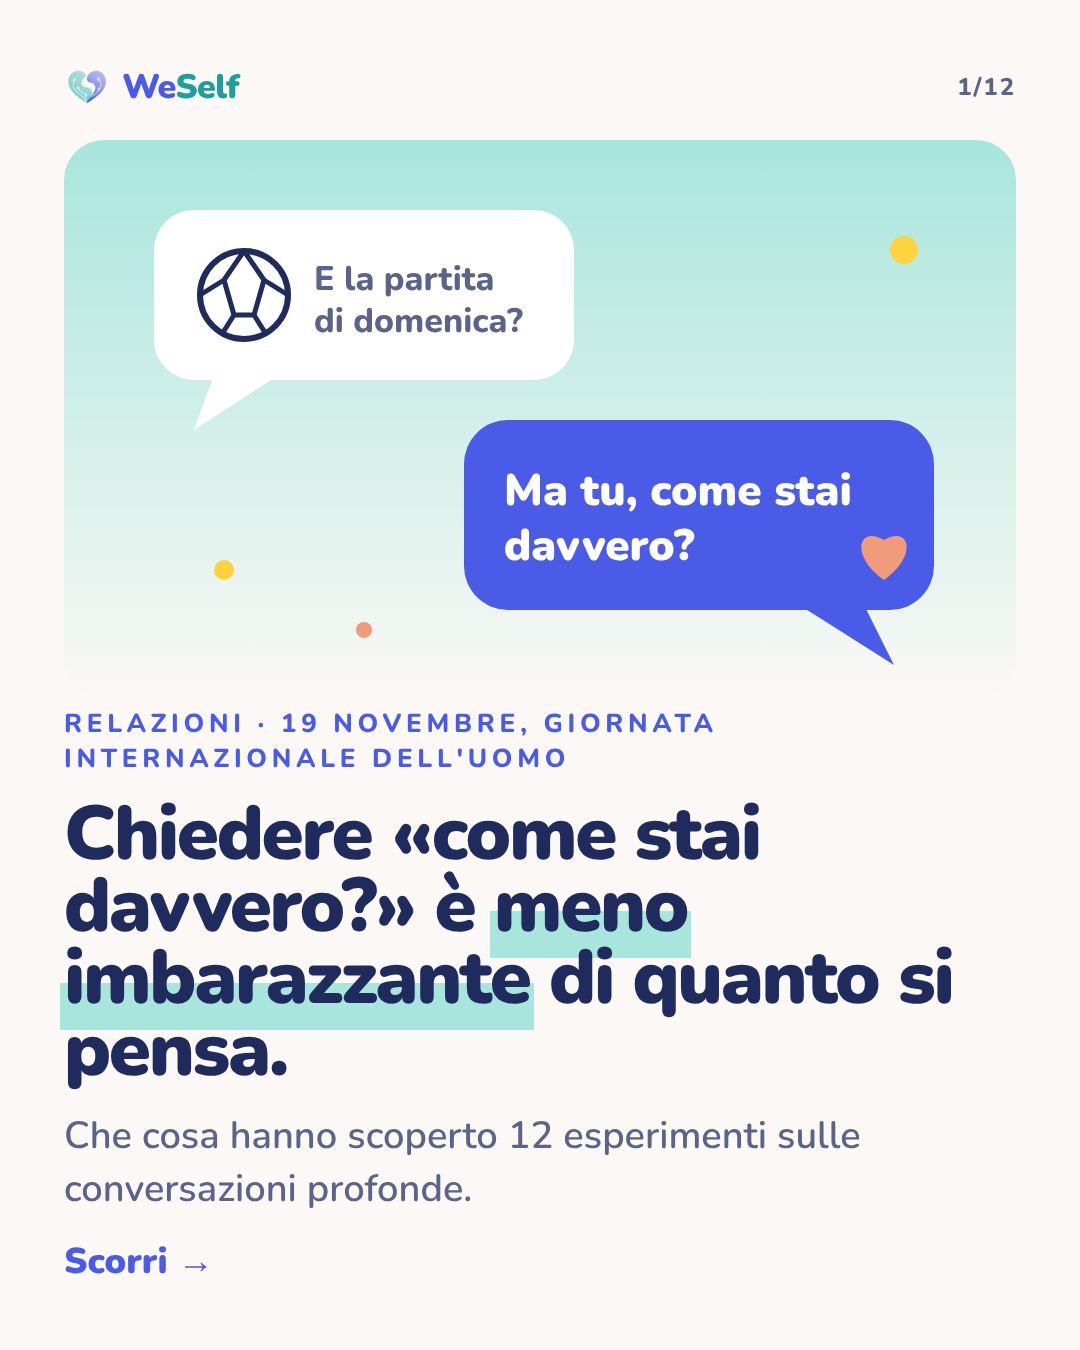
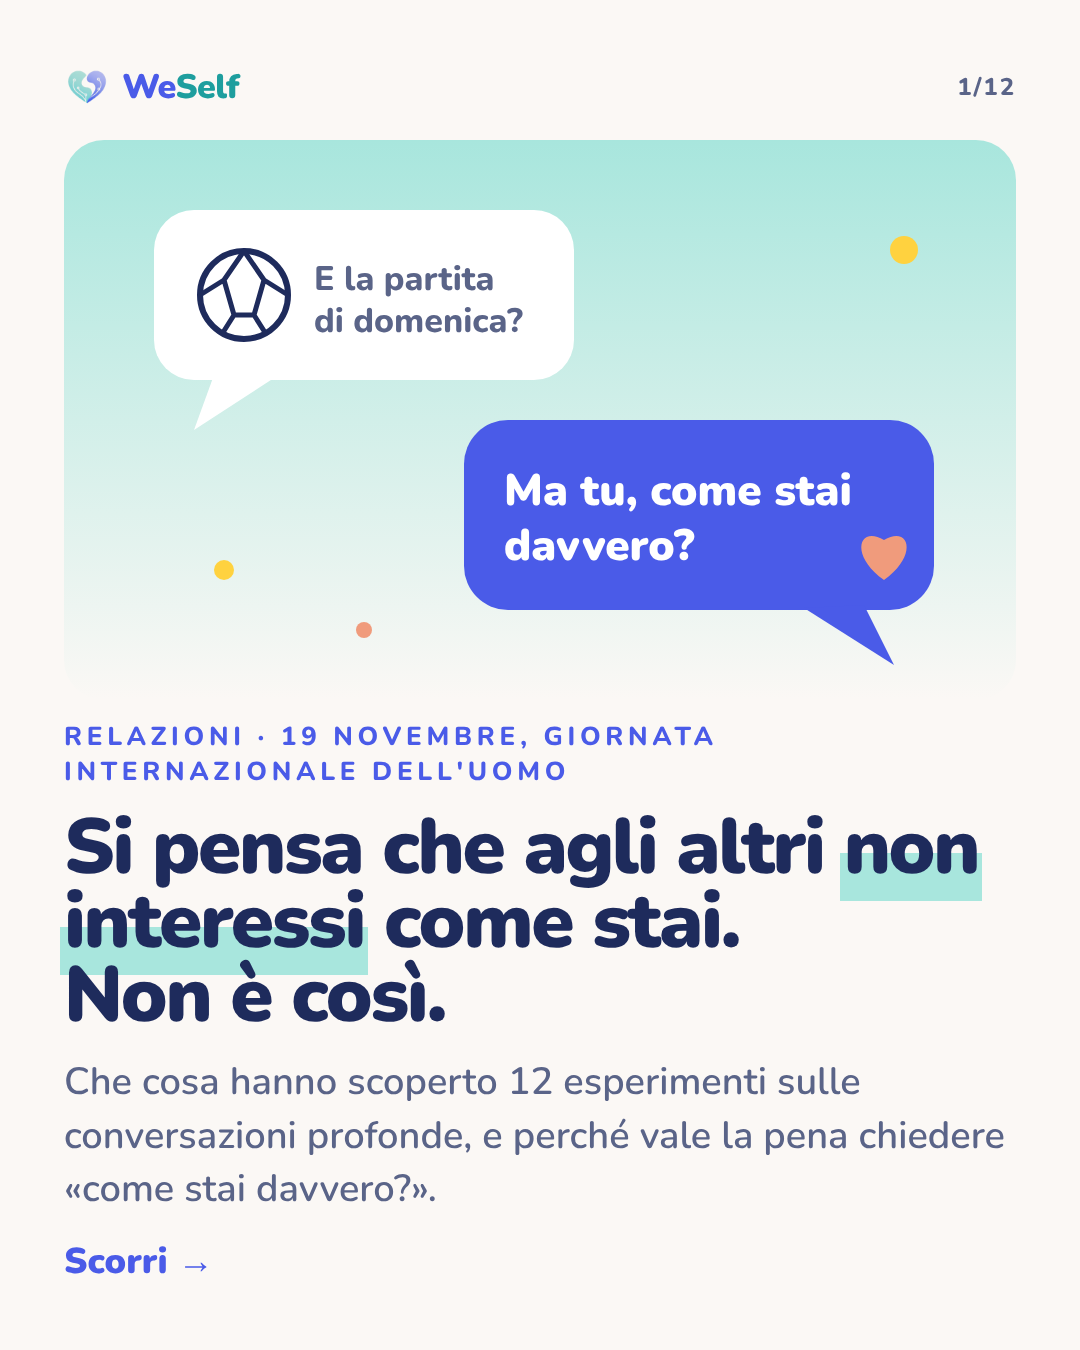
Carosello come-stai: l'idea «si pensa che agli altri non interessi» diventa il gancio della copertina
Claude-Session: https://claude.ai/code/session_01KYQeP73Zvn8PeP6zhkL2Sc

Changed region(s): [[0.0306, 0.5289, 0.9167, 0.9022]]

diff --git a/carosselli/come-stai/editor-testi.html b/carosselli/come-stai/editor-testi.html
@@ -229,8 +229,8 @@ svg.shape{position:absolute;z-index:1}
 <circle cx="840" cy="110" r="14" fill="#FFD23F"></circle><circle cx="160" cy="430" r="10" fill="#FFD23F"></circle><circle cx="300" cy="490" r="8" fill="#F09B7C"></circle></svg>
   <div style="margin-top:auto;gap:22px" class="stack">
     <p class="kicker we" data-e="s1-2">Relazioni · 19 novembre, Giornata internazionale dell'uomo</p>
-    <h1 style="font-size:76px" data-e="s1-3">Chiedere «come stai davvero?» è <span class="hl t">meno imbarazzante</span> di quanto si pensa.</h1>
-    <p class="mid muted" data-e="s1-4">Che cosa hanno scoperto 12 esperimenti sulle conversazioni profonde.</p>
+    <h1 style="font-size:78px" data-e="s1-3">Si pensa che agli altri <span class="hl t">non interessi</span> come stai.<br>Non è così.</h1>
+    <p class="mid muted" data-e="s1-4">Che cosa hanno scoperto 12 esperimenti sulle conversazioni profonde, e perché vale la pena chiedere «come stai davvero?».</p>
     <p style="font-weight:900;font-size:36px;color:var(--peri)" data-e="s1-5">Scorri →</p>
   </div>
 </section></div></div></div><div class="cell"><span class="lab">Slide 2 di 12</span><div class="frame"><div class="deck"><section class="slide" id="s2">

diff --git a/carosselli/come-stai/slides.html b/carosselli/come-stai/slides.html
@@ -190,8 +190,8 @@ svg.shape{position:absolute;z-index:1}
 <circle cx="840" cy="110" r="14" fill="#FFD23F"/><circle cx="160" cy="430" r="10" fill="#FFD23F"/><circle cx="300" cy="490" r="8" fill="#F09B7C"/></svg>
   <div style="margin-top:auto;gap:22px" class="stack">
     <p class="kicker we">Relazioni · 19 novembre, Giornata internazionale dell'uomo</p>
-    <h1 style="font-size:76px">Chiedere «come stai davvero?» è <span class="hl t">meno imbarazzante</span> di quanto si pensa.</h1>
-    <p class="mid muted">Che cosa hanno scoperto 12 esperimenti sulle conversazioni profonde.</p>
+    <h1 style="font-size:78px">Si pensa che agli altri <span class="hl t">non interessi</span> come stai.<br>Non è così.</h1>
+    <p class="mid muted">Che cosa hanno scoperto 12 esperimenti sulle conversazioni profonde, e perché vale la pena chiedere «come stai davvero?».</p>
     <p style="font-weight:900;font-size:36px;color:var(--peri)">Scorri →</p>
   </div>
 </section>

diff --git a/carosselli/come-stai/body.html b/carosselli/come-stai/body.html
@@ -115,8 +115,8 @@
 <circle cx="840" cy="110" r="14" fill="#FFD23F"/><circle cx="160" cy="430" r="10" fill="#FFD23F"/><circle cx="300" cy="490" r="8" fill="#F09B7C"/></svg>
   <div style="margin-top:auto;gap:22px" class="stack">
     <p class="kicker we">Relazioni · 19 novembre, Giornata internazionale dell'uomo</p>
-    <h1 style="font-size:76px">Chiedere «come stai davvero?» è <span class="hl t">meno imbarazzante</span> di quanto si pensa.</h1>
-    <p class="mid muted">Che cosa hanno scoperto 12 esperimenti sulle conversazioni profonde.</p>
+    <h1 style="font-size:78px">Si pensa che agli altri <span class="hl t">non interessi</span> come stai.<br>Non è così.</h1>
+    <p class="mid muted">Che cosa hanno scoperto 12 esperimenti sulle conversazioni profonde, e perché vale la pena chiedere «come stai davvero?».</p>
     <p style="font-weight:900;font-size:36px;color:var(--peri)">Scorri →</p>
   </div>
 </section>

diff --git a/carosselli/come-stai/kit-pubblicazione-come-stai.md b/carosselli/come-stai/kit-pubblicazione-come-stai.md
@@ -1,4 +1,4 @@
-# Carosello · Chiedere «come stai davvero?» è meno imbarazzante di quanto si pensa (Kardas, Kumar & Epley, 2022)
+# Carosello · Si pensa che agli altri non interessi come stai. Non è così. (Kardas, Kumar & Epley, 2022)
 
 **Pilastro:** Relazioni (amicizia). **Occasione:** giovedì 19 novembre, Giornata internazionale dell'uomo (non istituita dall'ONU; tema dei promotori 2026: «The Future Is Everyone»). **Immagini:** `weself-come-stai-01.png` … `weself-come-stai-12.png` (1080×1350). Su Instagram e Facebook come carosello; su TikTok in modalità foto.
 
@@ -17,7 +17,7 @@
 ## Didascalia (Instagram / Facebook)
 
 ```
-Chiedere «come stai davvero?» è meno imbarazzante di quanto si pensa.
+Si pensa che agli altri non interessi come stai. Non è così.
 
 Oggi è la Giornata internazionale dell'uomo. Molte persone, e molti uomini, con gli amici parlano di calcio, lavoro e programmi per il weekend; la domanda su come si sta davvero resta spesso in gola.
 
@@ -43,7 +43,7 @@ A chi faresti oggi la domanda vera? 👇
 ## Didascalia breve (TikTok)
 
 ```
-«Ma tu, come stai davvero?» In 12 esperimenti, le conversazioni profonde sono state meno imbarazzanti e più piacevoli del previsto, anche tra amici. Fonte: Kardas, Kumar & Epley, 2022. #amicizia #comestai #WeSelf
+Si pensa che agli altri non interessi come stai. Non è così: in 12 esperimenti, le conversazioni profonde sono state meno imbarazzanti e più piacevoli del previsto, anche tra amici. Fonte: Kardas, Kumar & Epley, 2022. #amicizia #comestai #WeSelf
 ```
 
 ## Primo commento
@@ -56,7 +56,7 @@ Come abbiamo letto i numeri: nella slide 8 le percentuali sono la quota di doman
 
 ## Testo alternativo (una per slide)
 
-1. Due fumetti: «E la partita di domenica?» e «Ma tu, come stai davvero?» con un cuore. Titolo: «Chiedere "come stai davvero?" è meno imbarazzante di quanto si pensa».
+1. Due fumetti: «E la partita di domenica?» e «Ma tu, come stai davvero?» con un cuore. Titolo: «Si pensa che agli altri non interessi come stai. Non è così.»
 2. «Tutto bene? E la partita?» Molte persone, e molti uomini, con gli amici parlano di calcio e lavoro; la domanda vera resta in gola.
 3. La ricerca: 12 esperimenti, tra sconosciuti e in uno con amici, partner e familiari; conversazioni di circa 10 minuti con domande leggere o profonde; aspettative prima e esperienza dopo.
 4. Il risultato: imbarazzo meno di quanto temuto; vicinanza e felicità più di quanto previsto. 50 dirigenti, per l'82% uomini, vorrebbero più conversazioni profonde.

diff --git a/CLAUDE.md b/CLAUDE.md
@@ -78,7 +78,7 @@ Brand: colours and type are in the CSS of `templates/carousel/head.html` (teal =
 | Il bias della settimana #2 · liking gap — Boothby et al. 2018 (percentages computed from the authors' public OSF data) | `carosselli/bias-02-liking-gap/` | Published (real Canva photo on the cover) |
 | Leadership / leader non si nasce: si impara — Lacerenza et al. 2017 (first Leadership post) | `carosselli/leadership/` | Ready, not published (Sun 15 Nov) |
 | Abitudini / un buon proposito regge meglio con un «se… allora…» — Gollwitzer & Sheeran 2006 | `carosselli/se-allora/` | Published |
-| Relazioni / chiedere «come stai davvero?» è meno imbarazzante di quanto si pensa — Kardas, Kumar & Epley 2022 (Giornata internazionale dell'uomo) | `carosselli/come-stai/` | Ready, not published (Thu 19 Nov) |
+| Relazioni / si pensa che agli altri non interessi come stai, non è così — Kardas, Kumar & Epley 2022 (Giornata internazionale dell'uomo) | `carosselli/come-stai/` | Ready, not published (Thu 19 Nov) |
 | Reel animato «Dove sentiamo le emozioni» — Volynets et al. 2020 (bodily maps, stylised bodies, founder opinion) | `video/mappe-emozioni/` | Published (Mon 16 Nov, 115 s, founder voice-over) |
 | Video YouTube + Reel kit on Dunedin | `video/dunedin/` | Ready, not produced yet |
 | Reel animato Dunedin (no face, voice-over by the founder) | `video/dunedin/animato/` | Published (53 s, founder voice-over and opinion) |
